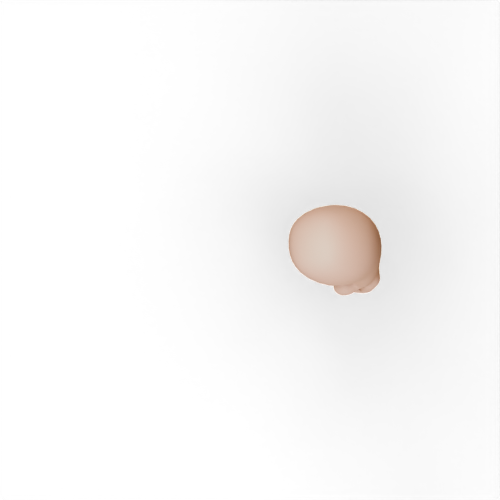
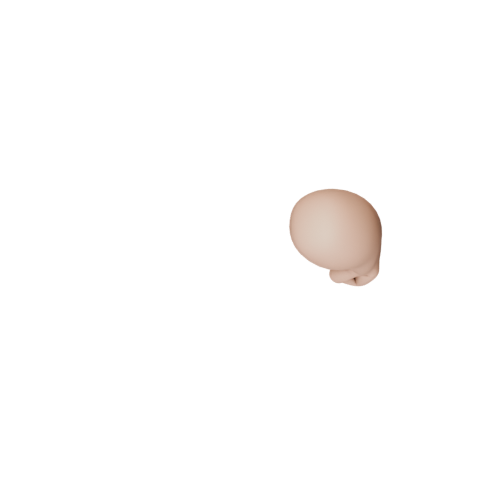
add hero moving animation rounding sides

Changed region(s): [[0.54, 0.36, 0.81, 0.6]]

diff --git a/traveler/src/components/hero-map-tile.vue b/traveler/src/components/hero-map-tile.vue
@@ -2,12 +2,17 @@
   <div
       class="initialTileView mapTile"
       :style="tileBackgroundStyle"
+      @mouseenter="isHoveringHero = true"
+      @mouseleave="isHoveringHero = false"
   >
     <div
         class="tile-bottom-shadow inventory-button"
         @click="openInventory"
     >
-      <div class="hero-body-tile-image">
+      <div
+          class="hero-body-tile-image"
+          :style="heroTransformStyle"
+      >
         <div class="podium-hero-image stand-base-top-view"/>
         <div class="podium-hero-image base-hand-l-top-view breath"/>
         <div
@@ -20,20 +25,18 @@
             :class="{ 'base-armor-top-view': !heroStore.hero.equipment.armor }"
             :style="getItemTopViewImageStyle(heroStore.hero.equipment.armor)"
         />
+        <div class="podium-hero-image breath" v-if="heroStore.hero.equipment.shield" :style="getItemTopViewImageStyle(heroStore.hero.equipment.shield)"/>
         <div
             class="podium-hero-image"
-            :class="{ 'base-belt-top-view': !heroStore.hero.equipment.belt }"
-            :style="getItemTopViewImageStyle(heroStore.hero.equipment.belt)"
+            :class="headClass"
         />
-        <div class="podium-hero-image breath" v-if="heroStore.hero.equipment.shield" :style="getItemTopViewImageStyle(heroStore.hero.equipment.shield)"/>
-        <div class="podium-hero-image base-head-top-view"/>
       </div>
     </div>
   </div>
 </template>
 
 <script setup lang="ts">
-import {computed, defineProps} from 'vue'
+import {computed, defineProps, onMounted, onUnmounted, ref} from "vue";
 import TileModel from '@/models/TileModel'
 import {useHeroStore} from '@/stores/HeroStore'
 import {LootItemModel} from "@/models/LootItemModel";
@@ -42,8 +45,62 @@ const heroStore = useHeroStore()
 
 const props = defineProps<{
   tile: TileModel
-}>()
+}>();
 
+const rotation = ref(0);
+const targetRotation = ref(0);
+const isHoveringHero = ref(false);
+const isIdle = ref(true);
+let idleTimer: number | null = null;
+
+const headClass = computed(() => {
+  return isIdle.value ? "base-head-up-top-view" : "base-head-top-view";
+});
+
+const heroTransformStyle = computed(() => ({
+  transform: `scale(0.3) rotate(${rotation.value}deg)`,
+  transformOrigin: "center center",
+}));
+
+const updateRotation = (e: MouseEvent) => {
+  if (isHoveringHero.value) return;
+
+  const heroEl = document.querySelector(
+      ".hero-body-tile-image"
+  ) as HTMLElement | null;
+  if (!heroEl) return;
+
+  const rect = heroEl.getBoundingClientRect();
+  const centerX = rect.left + rect.width / 2;
+  const centerY = rect.top + rect.height / 2;
+
+  const dx = e.clientX - centerX;
+  const dy = e.clientY - centerY;
+
+  const angle = Math.atan2(dy, dx) * (180 / Math.PI);
+
+  targetRotation.value = angle + 270;
+  isIdle.value = false;
+  if (idleTimer) window.clearTimeout(idleTimer);
+  idleTimer = window.setTimeout(() => {
+    isIdle.value = true;
+  }, 1000);
+};
+
+const animate = () => {
+  rotation.value += (targetRotation.value - rotation.value);
+  requestAnimationFrame(animate);
+};
+
+onMounted(() => {
+  window.addEventListener("mousemove", updateRotation);
+  animate();
+});
+
+onUnmounted(() => {
+  window.removeEventListener("mousemove", updateRotation);
+  if (idleTimer) window.clearTimeout(idleTimer);
+});
 
 const getItemTopViewImageStyle = (equipment: LootItemModel) => {
   if (!equipment?.poseImgPath) return {}
@@ -70,7 +127,7 @@ const openInventory = () => {
   display: flex;
   justify-content: center;
   align-items: center;
-  transform: scale(0.35);
+  transform: scale(0.3);
   transform-origin: center center;
   z-index: 10;
 }
@@ -98,33 +155,15 @@ const openInventory = () => {
   background-image: url("/images/creatures_500_500/humans_500_500/hero-asmodei/body-parts/base-torso-top-view.png");
 }
 
-.base-belt-top-view {
-  background-image: url("/images/creatures_500_500/humans_500_500/hero-asmodei/body-parts");
+.base-head-top-view {
+  background-image: url("/images/creatures_500_500/humans_500_500/hero-asmodei/body-parts/head-top-view.png");
 }
 
-.base-head-top-view {
+.base-head-up-top-view {
   background-image: url("/images/creatures_500_500/humans_500_500/hero-asmodei/body-parts/head-up-top-view.png");
 }
 
 .stand-base-top-view {
   background-image: url("/images/podiums/stand-base-top-view.png");
-}
-
-@keyframes heroJump {
-  0% {
-    transform: translateY(0);
-  }
-  25% {
-    transform: translateY(-8px);
-  }
-  50% {
-    transform: translateY(0);
-  }
-  75% {
-    transform: translateY(-4px);
-  }
-  100% {
-    transform: translateY(0);
-  }
 }
 </style>
